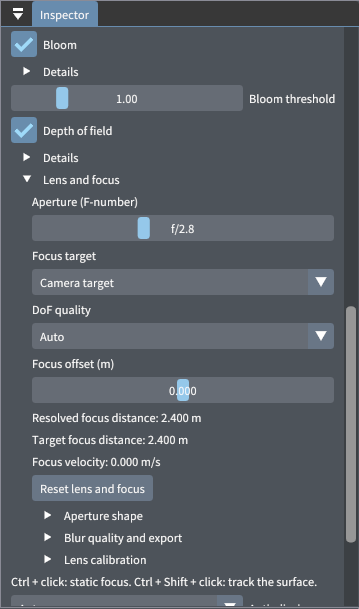
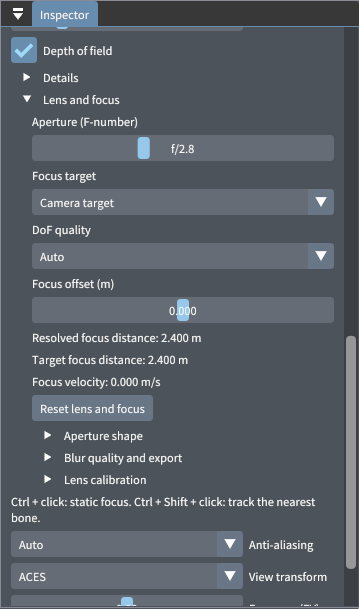
chore: update lens output guidance and GPU review evidence

diff --git a/src/app/application.cpp b/src/app/application.cpp
@@ -3829,7 +3829,7 @@ void Application::buildRenderSettingsControls() {
                 if (settings.dof.cinematicSamples != 0)
                     ImGui::TextWrapped(
                         "%s",
-                        ui::tr("Cinematic images use ACES; exposure, white balance and Bloom are not reapplied."));
+                        ui::tr("Cinematic images apply the selected color settings and Bloom after HDR averaging."));
                 lensSlider("Radius cap at 1080p (px; 0 = Auto)", settings.dof.maxRadiusPixels, 0.0F, 128.0F, "%.1f");
                 ImGui::TreePop();
             }

diff --git a/docs/preview/render-effects.md b/docs/preview/render-effects.md
@@ -43,7 +43,7 @@ fall back safely, and numeric values are checked for finiteness and clamped.
 | View transform | ACES fit, compact AgX approximation, or Khronos PBR Neutral | SDR linear sRGB output followed by hardware sRGB transfer; not Blender OCIO/LUT parity |
 | Exposure / white balance | EV gain and normalized Planckian RGB white-point correction | Approximate white balance, neutral at 6500 K |
 | Anti-aliasing | Off / FXAA / Auto | Spatial filter; no temporal history |
-| Depth of field | Thin-lens signed CoC, depth-aware MIP/ring gathers, near coverage, motion-reprojected history | F-number, bone/face/eye tracking, static/tracked surface clicks, curved aperture blades; perspective camera |
+| Depth of field | Thin-lens signed CoC, depth-aware MIP/ring gathers, near coverage, motion-reprojected history | F-number, bone/face/eye tracking, static point/nearest-bone tracking clicks, curved aperture blades; perspective camera |
 
 Skin diffuse is separate from specular highlights and hair, so diffusion does
 not smear the final scene image. Transparent overlays and outlines erase the
@@ -91,13 +91,19 @@ controls and loading/resetting projects invalidate older picks. Clear depth is
 ignored. The depth prepass includes opaque/alpha-tested fragments with combined
 alpha >= 0.98; picking sees the opaque surface behind blended materials.
 
-Ctrl + Shift + left click selects **Tracking point**. The rendered material ID
+Ctrl + Shift + left click selects **Track nearest bone**. The rendered material ID
 selects the model, then the nearest evaluated bone stores a local anchor and
 clone index. This is bone-based tracking, not a deforming-triangle attachment:
 loose cloth, morphs and skin weights can move independently of the anchor.
 Unidentified surfaces fall back to a static point with a visible message.
 The GPU result includes the submitted bone transforms, so an asynchronous
 result is bound in the pose in which it was clicked.
+
+Model instances and their PMX asset references carry persistent IDs in `.dayo`.
+Focus targets resolve by this ID, including multiple instances of the same PMX.
+A missing identified instance never redirects focus to another copy. Legacy
+projects without IDs are upgraded by source occurrence before assets are loaded;
+source-path matching is retained only for legacy references.
 
 Playback evaluates the shared pose at each rendered fractional VMD time, once
 for mesh, physics and focus. AF response (seconds), deadband (metres) and maximum
@@ -245,10 +251,32 @@ preview camera. Orthographic keys suspend the lens shift.
 Physical accumulation uses the uncapped lens aperture, so it can exceed the
 spatial radius cap. It costs 64–256 scene renders and is deliberately separate
 from interactive preview. The video exporter uses temporal spatial DoF; physical
-lens accumulation is available through image sequences. The existing Preview
-image-sequence resolve uses ACES and does not reapply the selected view transform,
-exposure/white balance, Bloom or FXAA after HDR averaging. It therefore does not
-yet provide full postprocessing parity with the viewport.
+lens accumulation is available through image sequences. After float32 HDR
+averaging and linear area downsampling, the resolved RGBA16F image enters the
+same GPU final pass as the viewport: Bloom, selected ACES/AgX/Neutral transform,
+exposure, white balance, FXAA and display-background composition. These nonlinear
+operations run once over the average; scene SSS/DoF are not repeated.
+
+### 1080p temporal foreground regression
+
+A dedicated `preview_dof_edge_1080p` GPU test moves a skinned foreground by
+0.37 pixels/frame for 24 frames and inspects only its silhouette halo. The
+coverage-weighted anchor pyramid preserves actual full-resolution foreground
+pixels independently of colour MIPs. Gather and reconstruction select valid
+anchors without interpolating their coordinates across identities or background.
+The source pixel supplies the existing identity, motion, depth and CoC checks.
+The pyramid adds about 5.5 MB per temporal frame slot at 1080p (up to five mips),
+and is a 1x1 placeholder when temporal DoF is disabled.
+
+On Vega 8, the original shader retained foreground anchors for 0/1056 inspected
+halo samples; the corrected shader retained 1056/1056. The original image still
+had small edge errors, so the anchor defect was clearer than visible flicker.
+After correction, the 1080p edge MAE/RMS against fresh spatial frames were
+0.518/0.996 byte values. Motion-compensated mean squared frame differences were
+0.421 byte² (original 0.432; spatial reference 0.576). These are synthetic-scene
+measurements, not a claim that all animated PMX boundaries have been validated.
+The regression requires at least 98% valid foreground anchors and separately
+bounds edge error and motion-compensated frame differences.
 
 ### GPU measurements
 
@@ -259,19 +287,24 @@ below explicitly disable temporal stabilization:
 
 | Quality | CoC | Downsample / tiles / MIPs | Near / far | Composite | DoF sum |
 | --- | --- | --- | --- | --- | --- |
-| Performance | 0.48 ms | 2.46 ms | 1.67 ms | 6.00 ms | 10.62 ms |
-| Balanced | 0.48 ms | 2.42 ms | 2.82 ms | 5.80 ms | 11.53 ms |
-| High | 0.47 ms | 2.42 ms | 3.72 ms | 5.56 ms | 12.18 ms |
+| Performance | 1.65 ms | 7.78 ms | 6.25 ms | 19.07 ms | 34.75 ms |
+| Balanced | 1.69 ms | 7.80 ms | 11.14 ms | 17.10 ms | 37.73 ms |
+| High | 1.66 ms | 7.89 ms | 14.54 ms | 15.83 ms | 39.93 ms |
 
-With temporal enabled, Balanced/High measured 15.76 / 16.36 ms for DoF including
-history resolve/copies. Their separate opaque motion/ID prepass measured
-3.02 / 3.07 ms and is included in the AO/depth profiler bucket, not the DoF sum.
-These figures exclude scene rendering, SSS, Bloom and tone mapping. GPU clocks,
-cache and other load change timings; a separate run measured spatial sums of
-11.22 / 12.17 / 14.47 ms. The former integer-gather implementation's historical
-13.18 / 17.07 / 19.81 ms are not a controlled speedup comparison. This fixture is
-not a whole-frame or complex-model performance promise. Start with Performance
-on an APU.
+With temporal enabled, Balanced/High measured 45.55 / 48.80 ms for DoF including
+anchor-pyramid generation and history resolve/copies. Their separate opaque
+motion/ID prepass measured 9.51 / 9.47 ms and is included in the AO/depth profiler
+bucket, not the DoF sum. In the immediately preceding run with the original
+shader, spatial sums were 34.57 / 37.65 / 40.37 ms and temporal sums were
+44.95 / 47.00 ms. The added anchor processing is skipped in Performance.
+
+These figures exclude scene rendering, SSS, Bloom and tone mapping. The GPU uses
+automatic clocks; clock and competing workload were not fixed. Earlier runs on
+the same APU measured spatial sums of 10.62 / 11.53 / 12.18 ms and temporal sums
+of 15.76 / 16.36 ms, so those earlier numbers do not represent the current test
+environment. The paired original-shader run above checks that this large timing
+change also occurs without the anchor fix. This fixture is not a whole-frame or
+complex-model performance promise. Start with Performance on an APU.
 
 ## Runtime behavior
 
@@ -294,6 +327,7 @@ values. A device without timestamp support displays an unavailable message.
 
 `preview_effect_settings` checks preset/override resolution, explicit Off,
 zero intensity, unsupported effects, malformed values, project round trips,
+ID-based duplicate-PMX focus restoration and missing-instance rejection,
 legacy loading and unknown-field preservation without a GPU. It also checks
 F-number/radius scaling, signed CoC, rotated camera unprojection, animated bone
 positions, distinct face/eye anchors, rotated local offsets, clone binding,
@@ -307,18 +341,19 @@ with different settings, small/odd extents and resource resize/reuse, in additio
 to existing skinning, transparency, texture and background regressions. Tests run
 with Vulkan validation and synchronization validation enabled. DoF-specific
 checks cover aperture response, foreground coverage outside its silhouette,
-focused foreground isolation, per-pass timings, all quality modes, tiny/odd
+focused foreground isolation, exact HDR final-pass parity for ACES/AgX/Neutral
+with exposure/WB/Bloom/FXAA, per-pass timings, all quality modes, tiny/odd
 extents, orthographic suspension, asynchronous picking with camera changes,
 opaque-surface selection behind blending, sky rejection and cancellation.
 `viewport_interaction` verifies Ctrl-click UVs, one-shot delivery and navigation
 capture while VMD follow is active.
 
 Validated on AMD Radeon Vega 8 (RADV RAVEN): the Release/glslc build succeeds
-and all 29 enabled CTest cases pass, including auto/high/async Preview rendering
+and all 30 enabled CTest cases pass, including auto/high/async Preview rendering
 and audio/video export. The existing `regression_test` is disabled by the
-repository configuration and was not counted as executed. All 20 Preview shader
+repository configuration and was not counted as executed. All 23 Preview shader
 entry/format variants also compile with the CI-pinned DXC v1.9.2602.24; the
-three auto/high/async Preview GPU suites also pass with those DXC shader
+four auto/high/async and 1080p edge Preview GPU suites also pass with those DXC shader
 artifacts. The glslc artifacts were restored after this cross-compiler check.
 Japanese and English panels were also visually inspected.
 
